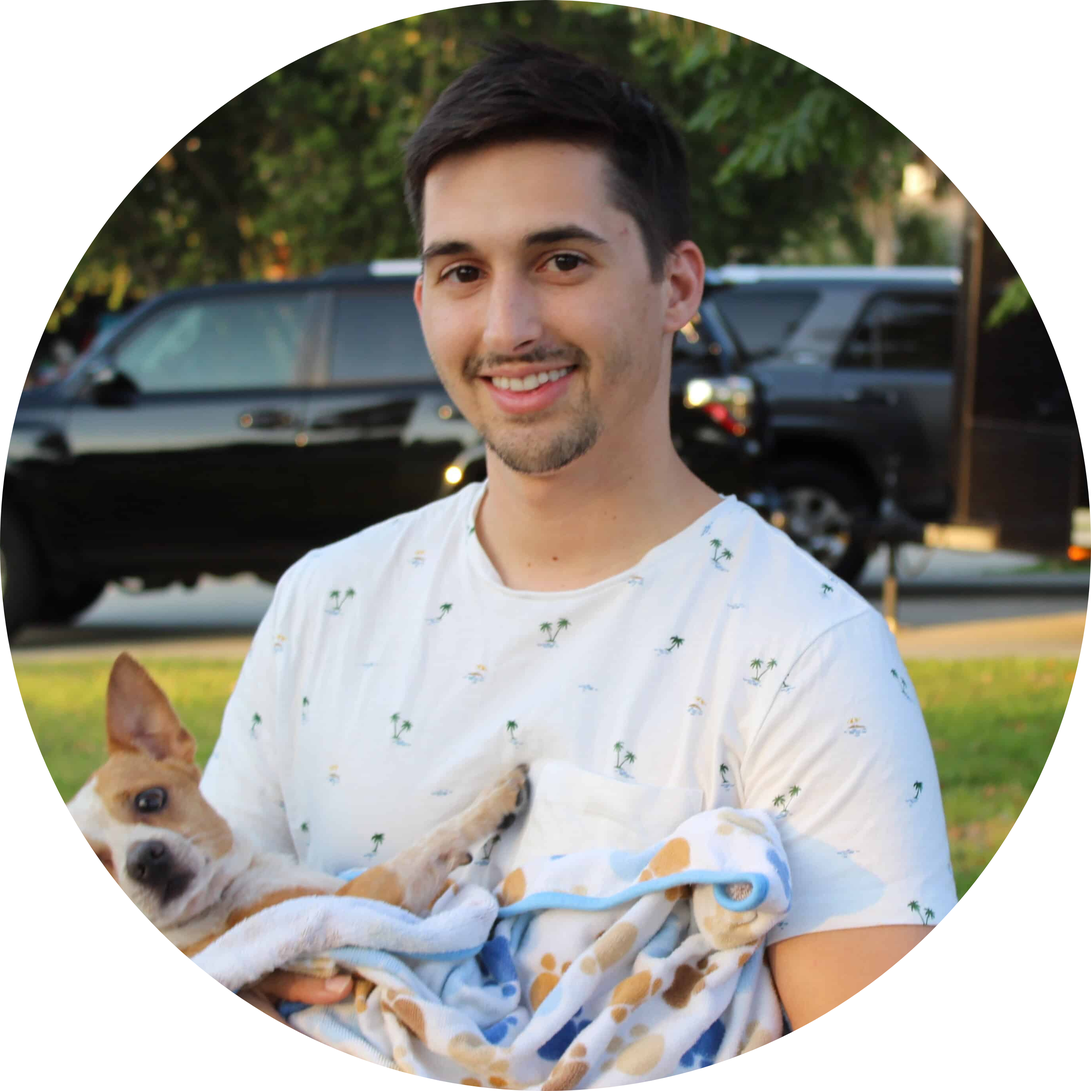
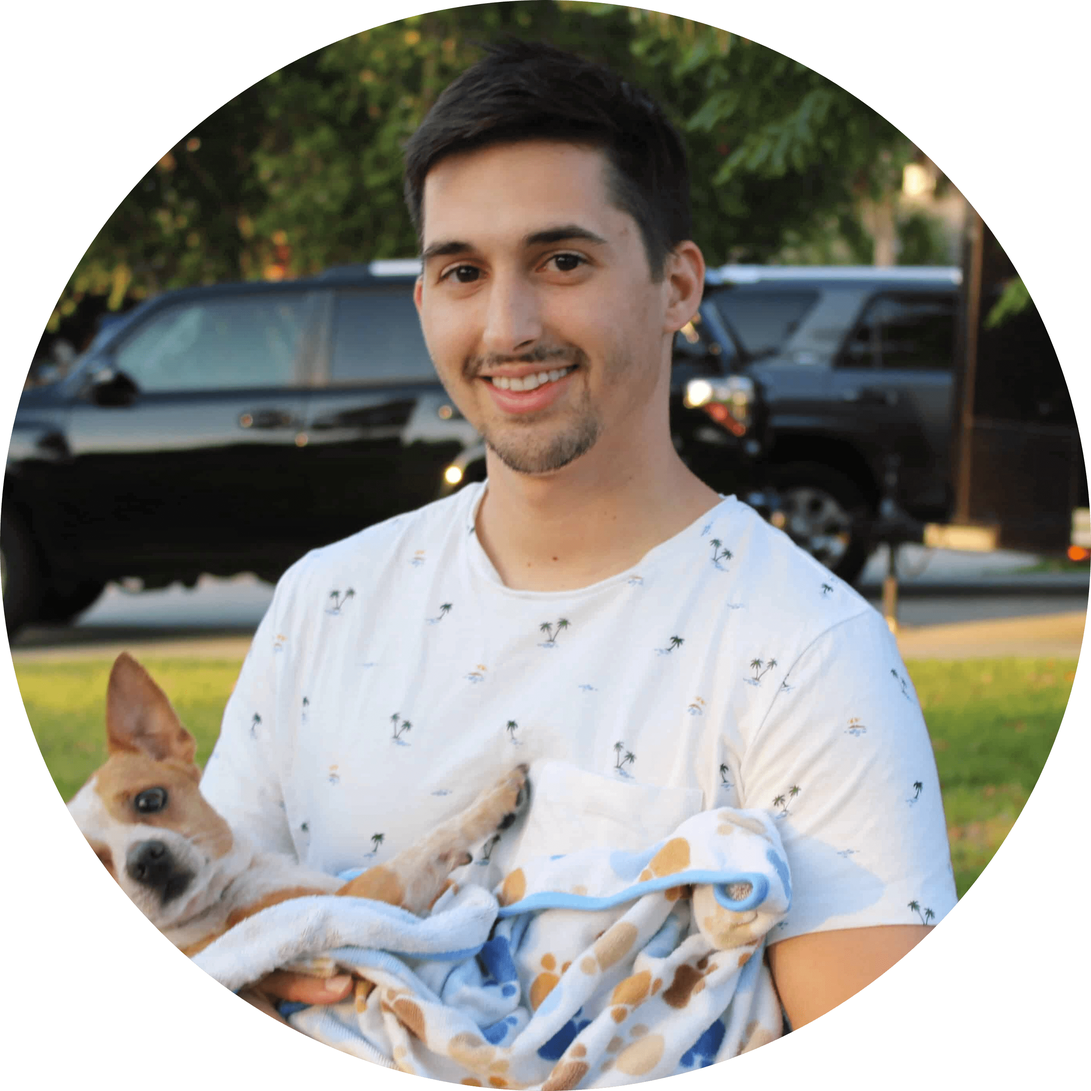
add about page, compress images

diff --git a/index.html b/index.html
@@ -13,7 +13,6 @@
 </head>
 
 <body>
-    <!-- navbar starts here -->
     <nav class="navbar navbar-expand-lg navbar-light bg-light">
         <a class="navbar-brand" href="index.html">Andrew Polemeni</a>
         <button class="navbar-toggler" type="button" data-toggle="collapse" data-target="#navbarNav"
@@ -23,7 +22,7 @@
         <div class="collapse navbar-collapse" id="navbarNav" role="navbar collapse">
             <ul class="navbar-nav">
                 <li class="nav-item">
-                    <a class="nav-link" href="#">About</a>
+                    <a class="nav-link" href="about.html">About</a>
                 </li>
                 <li class="nav-item">
                     <a class="nav-link" href="resume.html">Resume<span class="sr-only">(current)</span></a>
@@ -33,7 +32,6 @@
     </nav>
     <section>
         <div class="main-slider">
-            <!-- plexus here -->
             <script defer src="https://cdn.jsdelivr.net/particles.js/2.0.0/particles.min.js"></script>
             <div id="particles-js"></div>
             <div class="container" role="make sure content stays centered">
@@ -43,8 +41,9 @@
                         <img class="img-circle" src="img/andrew.png" alt="Head Shot" loading="lazy">
                         <h2 class="text-white text-center">I'm a Full Stack Web Developer & Cybersecurity Expert</h2>
                         <div class="text-center mb-3" role="place button in center">
-                            <button type="button" class="btn btn-outline-light center-block">View My Work <em
-                                    style='font-size:16px' class='fas'>&#xf061;</em></button>
+                            <button type="button" class="btn btn-outline-light center-block"
+                                onclick="window.location.href='/resume.html'">View My Work <em
+                                    class="fas fa-arrow-right"></em></button>
                         </div>
                     </div>
                 </div>
@@ -52,74 +51,55 @@
         </div>
     </section>
     </div>
-    <!-- contact form goes here -->
     <section>
         <div class="container" role="form container">
-            <form name="contact" method="POST" class="container" role="form container" style="padding-top:0%;"
-                data-netlify="true">
-                <br><br><br>
-                <h3 style="color: rgb(0, 0, 0);">Contact</h3>
-                <h3 style="color: rgb(0, 0, 0); font-size: medium;">Have a question or want to work together?</h3>
-                <!-- name -->
+            <form name="contact" method="POST" class="mb-5 mt-5" role="form container" data-netlify="true">
+                <h3>Contact</h3>
+                <h3 style="font-size: medium;">Have a question or want to work together?</h3>
                 <div class="form-group" role="textbox">
-                    <label for="name" style="color: rgb(0, 0, 0);">Full Name:</label>
+                    <label for="name">Full Name:</label>
                     <input name="name" type="text" class="form-control" aria-label="Name goes here" required>
                 </div>
-                <!-- email -->
                 <div class="form-group" role="textbox">
-                    <label for="email" style="color: rgb(0, 0, 0);">Email:</label>
+                    <label for="email">Email:</label>
                     <input name="email" type="email" class="form-control" aria-label="email goes here" required>
                 </div>
-                <!-- message -->
                 <div class="form-group" role="textbox">
-                    <label for="email" style="color: rgb(0, 0, 0);">Message:</label>
+                    <label for="email">Message:</label>
                     <textarea name="message" type="textarea" class="form-control" rows="5" aria-label="email goes here"
                         required></textarea>
                 </div>
-                <!-- button -->
-                <button type="submit" class="btn btn-dark">Submit</button>
+                <button type="submit" class="btn btn-dark mb-5">Submit</button>
             </form>
         </div>
-        <br><br><br><br><br>
     </section>
 </body>
 <footer class="page-footer font-small grey" style="background-color:#e6e9e9; position: relative;">
-    <!-- Footer -->
     <footer class="page-footer font-small container" style="margin:auto; width:100%; padding:30px; text-align: center;">
-        <!-- Footer Elements -->
         <div class="container">
-            <!-- Grid row-->
             <div class="row">
-                <!-- Grid column -->
                 <div class="col-md-12 py-5">
                     <div class="mb-5 flex-center">
-                        <!--Linkedin -->
                         <a href="https://www.linkedin.com/in/andrew-polemeni/" class="li-ic" target="_blank">
                             <em class="fab fa-linkedin-in fa-lg white-text mr-md-5 mr-3 fa-2x" style="color: #212529;"
                                 aria-hidden="true"></em>
                         </a>
-                        <!--Github-->
                         <a href="https://github.com/andrewpolemeni" class="ins-ic" target="_blank">
                             <em class="fab fa-github fa-lg white-text mr-md-5 mr-3 fa-2x" style="color: #212529;"
                                 aria-hidden="true"></em>
                         </a>
-                        <!-- Twitter -->
                         <a class="tw-ic">
                             <em class="fab fa-twitter fa-lg white-text mr-md-5 mr-3 fa-2x" style="color: #212529;"
                                 aria-hidden="true"></em>
                         </a>
-                        <!-- Google +-->
                         <a class="gplus-ic">
                             <em class="fab fa-youtube fa-lg white-text mr-md-5 mr-3 fa-2x" style="color: #212529;"
                                 aria-hidden="true"></em>
                         </a>
                     </div>
                 </div>
-                <!-- Grid column -->
             </div>
-            <!-- Grid row-->
         </div>
-        <!-- Footer Elements -->
     </footer>
     <script defer src="/source/js/particles.js"></script>
     <script defer src='https://kit.fontawesome.com/a076d05399.js'></script>

diff --git a/about.html b/about.html
@@ -1,0 +1,84 @@
+<?xml version="1.0" encoding="UTF-8"?>
+<!DOCTYPE html PUBLIC "-//W3C//DTD XHTML 1.0 Strict//EN" "http://www.w3.org/TR/xhtml1/DTD/xhtml1-strict.dtd">
+<html xmlns="http://www.w3.org/1999/xhtml" xml:lang="en" lang="en">
+
+<head>
+    <meta http-equiv="Content-Type" content="text/xhtml; charset=UTF-8" />
+    <title>Andrew Polemeni | Web Development & Cybersecurity</title>
+    <link rel="stylesheet" href="https://stackpath.bootstrapcdn.com/bootstrap/4.3.1/css/bootstrap.min.css"
+        integrity="sha384-ggOyR0iXCbMQv3Xipma34MD+dH/1fQ784/j6cY/iJTQUOhcWr7x9JvoRxT2MZw1T" crossorigin="anonymous">
+    <link rel="stylesheet" href="source/mainCSS/style.css">
+    <link rel="stylesheet" href="source/mainCSS/particles.css">
+    <meta name="viewport" content="initial-scale=1.0 , minimum-scale=1.0 , maximum-scale=1.0" />
+</head>
+
+<body>
+    <nav class="navbar navbar-expand-lg navbar-light bg-light">
+        <a class="navbar-brand" href="index.html">Andrew Polemeni</a>
+        <button class="navbar-toggler" type="button" data-toggle="collapse" data-target="#navbarNav"
+            aria-controls="navbarNav" aria-expanded="false" aria-label="Toggle navigation">
+            <span class="navbar-toggler-icon" role="toggle drop down when shrunk"></span>
+        </button>
+        <div class="collapse navbar-collapse" id="navbarNav" role="navbar collapse">
+            <ul class="navbar-nav">
+                <li class="nav-item">
+                    <a class="nav-link" href="about.html">About</a>
+                </li>
+                <li class="nav-item">
+                    <a class="nav-link" href="resume.html">Resume<span class="sr-only">(current)</span></a>
+                </li>
+            </ul>
+        </div>
+    </nav>
+    <section>
+        <h1 class="text-dark shadow-none mb-5">Who is Andrew Polemeni?
+            <hr>
+            </hr>
+        </h1>
+        <iframe src="https://player.vimeo.com/video/38772314" width="640" height="360" frameborder="0"
+            style="display: block; margin: auto;" allow="autoplay; fullscreen" allowfullscreen></iframe>
+        <div class="text-center">
+            <button class="btn btn-dark mt-5">Yes, I want Andrew to help grow my business!</button>
+        </div>
+    </section>
+    <footer class="page-footer font-small grey mt-5" style="background-color:#e6e9e9; position: relative;">
+        <footer class="page-footer font-small container mt-4"
+            style="margin:auto; width:100%; padding:50px; text-align: center; max-height: 20rem;">
+            <div class="container mt-5">
+                <div class="row">
+                    <div class="col-md-12 py-5">
+                        <div class="mb-5 flex-center">
+                            <a href="https://www.linkedin.com/in/andrew-polemeni/" class="li-ic" target="_blank">
+                                <em class="fab fa-linkedin-in fa-lg white-text mr-md-5 mr-3 fa-2x"
+                                    style="color: #212529;" aria-hidden="true"></em>
+                            </a>
+                            <a href="https://github.com/andrewpolemeni" class="ins-ic" target="_blank">
+                                <em class="fab fa-github fa-lg white-text mr-md-5 mr-3 fa-2x" style="color: #212529;"
+                                    aria-hidden="true"></em>
+                            </a>
+                            <a class="tw-ic">
+                                <em class="fab fa-twitter fa-lg white-text mr-md-5 mr-3 fa-2x" style="color: #212529;"
+                                    aria-hidden="true"></em>
+                            </a>
+                            <a class="gplus-ic">
+                                <em class="fab fa-youtube fa-lg white-text mr-md-5 mr-3 fa-2x" style="color: #212529;"
+                                    aria-hidden="true"></em>
+                            </a>
+                        </div>
+                    </div>
+                </div>
+            </div>
+        </footer>
+        <script defer src="/source/js/particles.js"></script>
+        <script defer src='https://kit.fontawesome.com/a076d05399.js'></script>
+        <script defer src="https://code.jquery.com/jquery-3.3.1.slim.min.js"
+            integrity="sha384-q8i/X+965DzO0rT7abK41JStQIAqVgRVzpbzo5smXKp4YfRvH+8abtTE1Pi6jizo"
+            crossorigin="anonymous"></script>
+        <script defer src="https://cdnjs.cloudflare.com/ajax/libs/popper.js/1.14.7/umd/popper.min.js"
+            integrity="sha384-UO2eT0CpHqdSJQ6hJty5KVphtPhzWj9WO1clHTMGa3JDZwrnQq4sF86dIHNDz0W1"
+            crossorigin="anonymous"></script>
+        <script defer src="https://stackpath.bootstrapcdn.com/bootstrap/4.3.1/js/bootstrap.min.js"
+            integrity="sha384-JjSmVgyd0p3pXB1rRibZUAYoIIy6OrQ6VrjIEaFf/nJGzIxFDsf4x0xIM+B07jRM"
+            crossorigin="anonymous"></script>
+
+</html>

diff --git a/resume.html b/resume.html
@@ -21,10 +21,11 @@
     <div class="collapse navbar-collapse" id="navbarNav" role="navbar collapse">
       <ul class="navbar-nav">
         <li class="nav-item">
-          <a class="nav-link" href="#">About</a>
+          <a class="nav-link" href="about.html" role="link" aria-roledescription="About Page">About</a>
         </li>
         <li class="nav-item">
-          <a class="nav-link" href="resume.html">Resume<span class="sr-only">(current)</span></a>
+          <a class="nav-link" href="resume.html" role="link" aria-roledescription="Resume Page">Resume<span
+              class="sr-only">(current)</span></a>
         </li>
       </ul>
     </div>
@@ -115,9 +116,10 @@
             </div> <!-- end job-title container -->
             <div>
               <ul>
-                <li>Job duties include preparing documentation for the National Accreditation Board of Engineering and
-                  Technology, assisting professors with course materials and analyzing collegiate cohort data. Also,
-                  automating collegiate processes with web scrapping in Node.js.</li>
+                <li>Assisted in accrediting Daytona State with the National the Accreditation Board for Engineering and
+                  Technology.</li>
+                <li></li>
+                <li></li>
               </ul>
             </div>
           </div> <!-- end job -->

diff --git a/source/mainCSS/style.css b/source/mainCSS/style.css
@@ -2,7 +2,6 @@
     margin: 0;
     padding: 0;
 }
-
 html, body {
     height: 100%;
 }
@@ -26,7 +25,6 @@ h1 {
     margin-top: 2%;
     font-size: 30px;
     font-size: 38pt;
-    text-shadow: 1px 1px 3px black;
 }
 p {
     color: white;
@@ -38,7 +36,6 @@ p {
     font-size: 30pt;
     text-shadow: 1px 1px 3px black;
 }
-
 /* image of myself */
 .img-circle {
     display: block;
@@ -47,13 +44,10 @@ p {
     width: 60%;
     max-width:350px;
 }
-
 /* change bootstrap default brand text */
-
 .navbar-brand {
     font-size: 150%;
 }
-
 .nav-link {
     font-size: 150%;
 }
